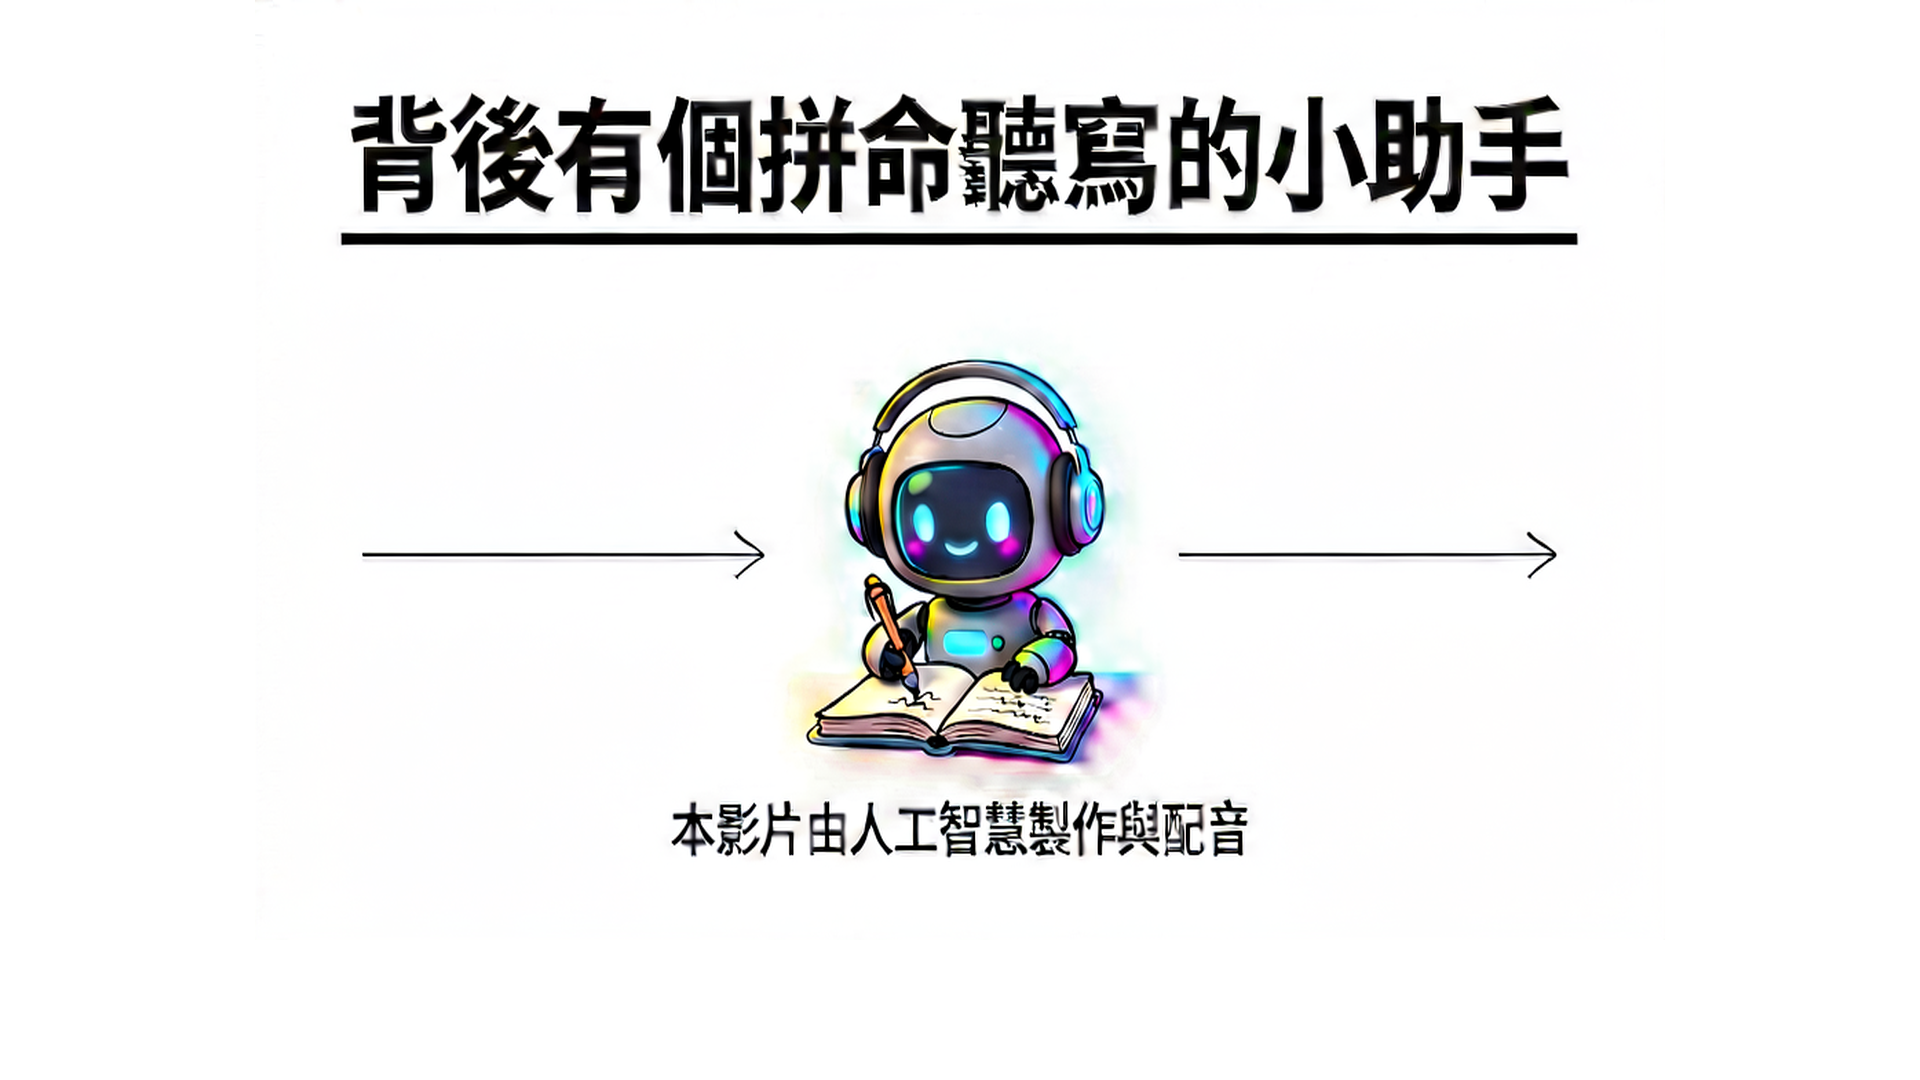
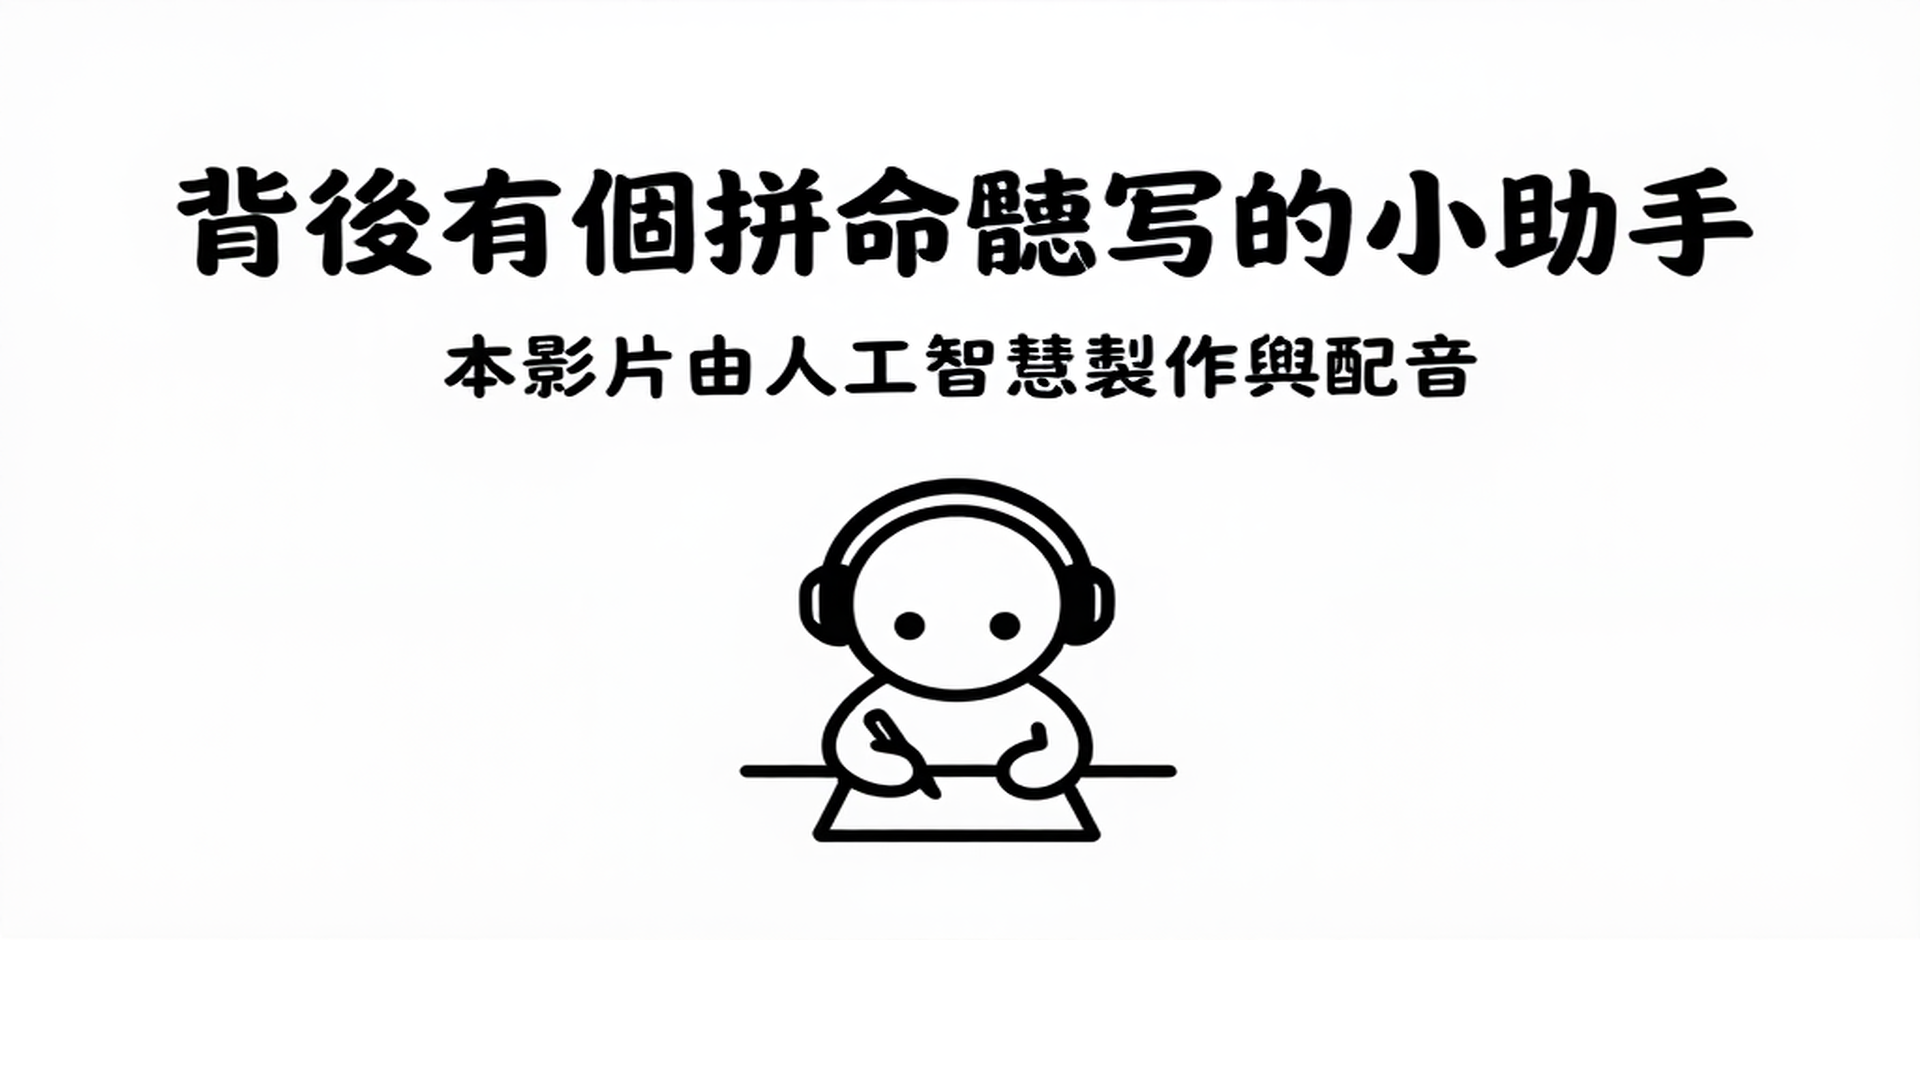
feat: switch image model from ERNIE-Image-Turbo to Z-Image-Turbo
- Model: ernie-image-turbo -> z_image_turbo-Q4_K.gguf (8 steps, ~8s/img)
- VAE: flux2-vae -> ae.safetensors
- Text encoder: ministral-3-3b -> Qwen3-4B-UD-Q4_K_XL.gguf
- cfg-scale: 3.0 -> 1.0 (with --diffusion-fa flag)
- Size: 1536x1024 -> 1024x576 (16:9 instead of 3:2)
- pad_and_burn.js: auto-detect aspect ratio (16:9 vs 3:2)
- slides_gen.py + cover_gen.py: add cfg_scale to payload
- config-example.json: update image block
- SKILL.md: update startup commands, requirements, Path A, cover
- lessons-learned.md: add #14 Z-Image migration lesson
- demo: regenerate slides with Z-Image-Turbo

Changed region(s): [[0.0938, 0.0917, 0.9062, 0.275], [0.1875, 0.3056, 0.7812, 0.7944], [0.625, 0.4889, 0.8125, 0.5194]]

diff --git a/scripts/pad_and_burn.js b/scripts/pad_and_burn.js
@@ -1,13 +1,15 @@
-/* Pad gpt-image slides into 1920x1080 (top 940px content + bottom 140px white subtitle
-   band), and burn subtitles into video_sub.mp4.
+/* Pad slides into 1920x1080 with subtitle-safe bottom band.
+
+   Two input aspect ratios handled:
+   - 3:2 (1536x1024, old ERNIE-Image-Turbo): scale to 1410x940, pad to 1920x1080
+   - 16:9 (1024x576, Z-Image-Turbo): scale to 1920x940, white pad to 1920x1080
 
    Usage:
      node pad_and_burn.js pad  [project_dir]  # slides_raw/slide_NN.png -> slides/slide_NN.png
      node pad_and_burn.js burn [project_dir]  # video.mp4 + subtitles_aligned.srt -> video_sub.mp4
 
-   Why pad: gpt-image slides are full-bleed 3:2 with text often near the bottom —
-   burning subtitles straight onto them covers the slide's own text. The white band
-   keeps subtitles fully separated from content.
+   Why pad: generated slides are full-bleed — burning subtitles straight onto them covers
+   slide content. The white band keeps subtitles fully separated from content.
    Tune burn style with env vars SUB_FS (font size, default 30) / SUB_MV (margin, 30). */
 const fs=require('fs'), path=require('path'), {execSync}=require('child_process');
 const mode=process.argv[2];
@@ -15,6 +17,7 @@ const DIR=path.resolve(process.argv[3]||process.cwd());
 const cfgP=path.join(DIR,'config.json');
 const cfg=fs.existsSync(cfgP)?JSON.parse(fs.readFileSync(cfgP,'utf8')):{};
 const FFMPEG=cfg.ffmpeg||'ffmpeg';
+const FFPROBE=cfg.ffprobe||'ffprobe';
 const SRC=path.join(DIR,'slides_raw'), OUT=path.join(DIR,'slides');
 
 if(mode==='pad'){
@@ -25,7 +28,20 @@ if(mode==='pad'){
   const files=fs.readdirSync(SRC).filter(f=>/^slide_\d+\.png$/i.test(f)).sort();
   for(const f of files){
     const inp=path.join(SRC,f), outp=path.join(OUT,f);
-    execSync(`"${FFMPEG}" -y -i "${inp}" -vf "scale=1410:940:flags=lanczos,pad=1920:1080:255:0:color=white" "${outp}"`,{stdio:'pipe'});
+    // Detect aspect ratio: 3:2 gets 1410x940 scale, 16:9 gets 1920x940
+    const dimCmd=`"${FFPROBE}" -v error -select_streams v:0 -show_entries stream=width,height -of csv=p=0 "${inp}"`;
+    const dimOut=execSync(dimCmd,{stdio:'pipe'}).toString().trim();
+    const [w,h]=dimOut.split(',').map(Number);
+    const ratio=w/h;
+    let vf;
+    if(Math.abs(ratio-16/9)<0.01){
+      // 16:9 → scale to 1920x940, pad to 1920x1080 (140px bottom band)
+      vf=`scale=1920:940:flags=lanczos,pad=1920:1080:0:0:color=white`;
+    } else {
+      // 3:2 or other → scale to 1410x940, pad centered to 1920x1080
+      vf=`scale=1410:940:flags=lanczos,pad=1920:1080:255:0:color=white`;
+    }
+    execSync(`"${FFMPEG}" -y -i "${inp}" -vf "${vf}" "${outp}"`,{stdio:'pipe'});
     console.log(`padded ${f}`);
   }
   console.log(`Done: padded ${files.length} slides.`);

diff --git a/scripts/cover_gen.py b/scripts/cover_gen.py
@@ -5,7 +5,7 @@ Usage:
   python cover_gen.py                              # reads cover_prompt.txt in cwd
   python cover_gen.py --dir my-proj [prompt]       # project directory
 
-Output: cover_raw.png (1536x1024). Then pad — do NOT crop — to 1280x720:
+Output: cover_raw.png (1024x576). Then pad — do NOT crop — to 1280x720:
 
   ffmpeg -y -i cover_raw.png -vf "scale=1080:720,pad=1280:720:100:0:color=white" thumbnail.png
 
@@ -50,7 +50,8 @@ def gen():
     print("gen cover...", flush=True)
     body = json.dumps({"model": MODEL, "prompt": PROMPT,
                        "size": SIZE, "n": 1, "response_format": "b64_json",
-                       "steps": IMG_CFG.get("steps", 50)}).encode()
+                       "steps": IMG_CFG.get("steps", 8),
+                       "cfg_scale": IMG_CFG.get("cfgScale", 1.0)}).encode()
     req = request.Request(f"{BASE_URL}/images/generations", data=body,
         headers={"Content-Type": "application/json"})
     with request.urlopen(req, timeout=300) as r:

diff --git a/scripts/slides_gen.py b/scripts/slides_gen.py
@@ -13,7 +13,7 @@ Usage:
   python slides_gen.py 3 7            # regenerate only slides 3 and 7 (1-based)
   python slides_gen.py --dir my-proj  # project directory (default: cwd)
 
-Output: slides_raw/slide_NN.png (1536x1024). Pad to 1920x1080 afterwards with
+Output: slides_raw/slide_NN.png (1024x576). Pad to 1920x1080 afterwards with
 `node pad_and_burn.js pad`.
 
 Config in config.json:
@@ -56,7 +56,8 @@ def gen(i):  # i is 1-based
     print(f"[{i}] gen...", flush=True)
     body = json.dumps({"model": MODEL, "prompt": prompts[i-1],
                        "size": SIZE, "n": 1, "response_format": "b64_json",
-                       "steps": IMG_CFG.get("steps", 50)}).encode()
+                       "steps": IMG_CFG.get("steps", 8),
+                       "cfg_scale": IMG_CFG.get("cfgScale", 1.0)}).encode()
     req = request.Request(f"{BASE_URL}/images/generations", data=body,
         headers={"Content-Type": "application/json"})
     try:

diff --git a/SKILL.md b/SKILL.md
@@ -35,7 +35,9 @@ Distilled from producing 40+ real videos for an AI-run YouTube channel (蝦說 A
 - **Python** ≥ 3.9 (only for image generation and optional rescore)
 - **FFmpeg + FFprobe** on PATH (or set explicit paths in `config.json`)
 - **Local services** (must be running before you start the pipeline):
-  - **sd-server** (:8080, GPU 0) — ERNIE-Image-Turbo image generation
+  - **sd-server** (:8080, GPU 0) — Z-Image-Turbo image generation
+    - Model: `z_image_turbo-Q4_K.gguf` + `ae.safetensors` VAE + `Qwen3-4B-UD-Q4_K_XL.gguf` text encoder
+    - 8 steps, cfg-scale 1.0, ~8s per image
   - **TTS server** (:8001, GPU 0) — Qwen3-TTS synthesis, conda env `qwen3-tts`
   - **vLLM ASR** (:8002, GPU 1) — Qwen3-ASR-1.7B text transcription, conda env `breeze-asr-v2`
   - **ASR Server** (:8012, GPU 1) — ForcedAligner 0.6B word timestamps, conda env `qwen3-asr`
@@ -116,9 +118,12 @@ entire batch of videos.
 ```bash
 # Terminal 1: Image server (GPU 0)
 ~/stable-diffusion.cpp/build/bin/sd-server \
-  --diffusion-model ~/comfy_ggufs/ComfyUI/models/unet/ernie-image-turbo-Q4_K_M.gguf \
-  --vae ~/comfy_ggufs/ComfyUI/models/vae/flux2-vae.safetensors \
-  --llm ~/comfy_ggufs/ComfyUI/models/text_encoders/ministral-3-3b.safetensors \
+  --diffusion-model /home/rong/comfy_ggufs/ComfyUI/models/unet/z_image_turbo-Q4_K.gguf \
+  --vae /home/rong/comfy_ggufs/ComfyUI/models/vae/ae.safetensors \
+  --llm /home/rong/comfy_ggufs/ComfyUI/models/text_encoders/Qwen3-4B-UD-Q4_K_XL.gguf \
+  --cfg-scale 1.0 \
+  --vae-tiling \
+  --diffusion-fa \
   --listen-port 8080
 
 # Terminal 2: TTS server (GPU 0)
@@ -189,7 +194,7 @@ TTS engines mispronounce things. Prevent it at the script stage:
 Two first-class paths. Pick ONE per video (Path A is our channel default; Path B has no
 image-API dependency).
 
-### Path A — ERNIE-Image-Turbo / sd-server (`scripts/slides_gen.py`)
+### Path A — Z-Image-Turbo / sd-server (`scripts/slides_gen.py`)
 
 Full-bleed AI-generated slides in a "professor's hand-drawn lecture notes" style:
 white background, bold black CJK title top-left with underline, thin black arrows,
@@ -198,12 +203,12 @@ lots of whitespace, a small mascot in the corner, stick figures only (no real fa
 1. Write one Chinese prompt per slide into `slides_prompts.json` (array of strings).
    Wrap every string that must appear on the slide in 「」. Always end the shared style
    block with: 「所有中文字必須完全正確、清楚可讀、不可有亂碼或錯字。數字要正確。」
-2. `python scripts/slides_gen.py` → generates `slides_raw/slide_NN.png` (1536×1024).
-   Default sampling steps = 50 (configurable in `config.json` → `image.steps`).
-   ERNIE-Image-Turbo at ≥50 steps produces noticeably clearer Chinese text;
-   below 30 steps characters are often garbled or have missing strokes.
-   Batch ≤4–5 concurrent lanes. **Do not run ASR at the same
-   time** — concurrent heavy GPU calls starve each other.
+2. `python scripts/slides_gen.py` → generates `slides_raw/slide_NN.png` (1024×576).
+   Default sampling steps = 8 (configurable in `config.json` → `image.steps`).
+   Z-Image-Turbo is a distilled model that converges in 8 steps; more steps do not
+   improve quality. cfg_scale must be 1.0 (set at server start, configurable in
+   `config.json` → `image.cfgScale`).
+   Batch ≤4–5 concurrent lanes, though at ~8s per image this is rarely a bottleneck.
 3. **Visually inspect every image** (garbled characters / wrong or invented numbers /
    typos → regenerate just that slide; HTTP 502 → just retry that slide).
    sd-server (ERNIE-Image-Turbo) WILL invent numbers to fill tables unless your prompt
@@ -365,7 +370,7 @@ references/lessons-learned.md § subtitle alignment.
 python scripts/cover_gen.py "一張 YouTube 影片封面，橫式 16:9，白底手繪教學風…主標題用超大粗黑體繁體中文寫「你的標題」…"
 ```
 
-- Generate at 1536×1024, then **pad — do not crop — to 1280×720**:
+- Generate at 1024×576 (Z-Image-Turbo default), then **pad — do not crop — to 1280×720**:
   crop cuts off the top of your title. `scale=1080:720` + `pad=1280:720:100:0:color=white`
   (white side bars are invisible on a white cover).
 - Target ≤2MB for YouTube.
@@ -397,7 +402,7 @@ my-video-project/
 ├── config.json              ← project config (from references/config-example.json)
 ├── narration.json           ← script text per slide
 ├── slides_prompts.json      ← (Path A) one sd-server prompt per slide
-├── slides_raw/              ← (Path A) raw 1536×1024 generations
+├── slides_raw/              ← (Path A) raw 1024×576 generations
 ├── slides/                  ← final 1920×1080 PNGs (padded or screenshotted)
 │   ├── slide_01.png
 │   └── ...